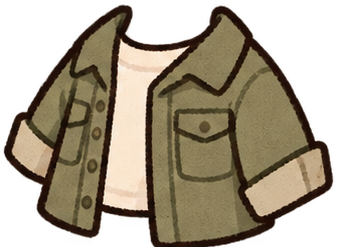
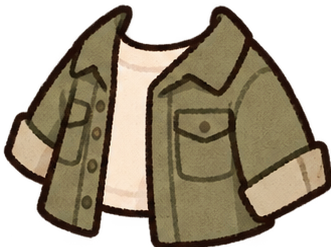
the dress up clothes and accessories are edited

Changed region(s): [[0.0302, 0.0, 1.0, 1.0], [0.574, 0.9636, 0.6042, 0.9919]]

diff --git a/client/src/features/avatar/components/AvatarPreview.vue b/client/src/features/avatar/components/AvatarPreview.vue
@@ -54,6 +54,6 @@ watch(layers, () => { failed.value = {} })
 .cc-avatar-bottom { left: 24%; top: 66%; width: 32%; height: 23%; }
 .cc-avatar-skirt { top: 66%; left: 27%; width: 36%; height: 22%; }
 .cc-avatar-shorts { top: 69%; left: 32%; width: 28%; height: 22%; }
-.cc-avatar-accessory { left: 32%; top: 24%; width: 36%; height: 22%; }
+.cc-avatar-accessory { left: 17%; top: 4%; width: 66%; height: 44%; }
 .cc-avatar-warning { position: absolute; inset: 0; display: grid; place-items: center; color: #B46D66; }
 </style>
